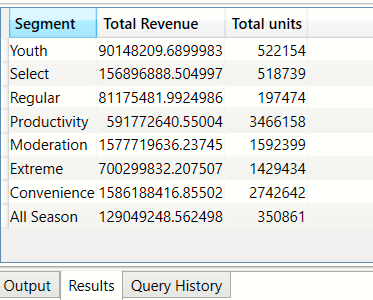
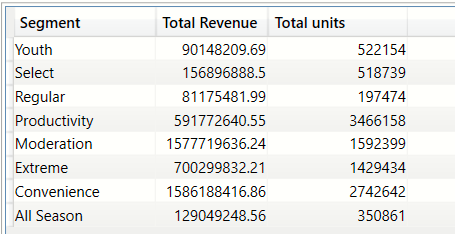
Completed distinct years using VALUES

diff --git a/dax-cheat-sheet/index.html b/dax-cheat-sheet/index.html
@@ -70,22 +70,66 @@
                 <li><a href="https://www.youtube.com/watch?v=kAniA_N7sB8">Computing a measure in DAX Studio</a></li>
 
                 <!--
-                https://www.youtube.com/watch?v=kAniA_N7sB8
-            -->
+            https://www.youtube.com/watch?v=kAniA_N7sB8
+        -->
             </ul>
             <img src="images/dax-studio-connect.PNG" />
 
             <h2>How to execute Table expressions?</h2>
             <p>to be done</p>
+            <img src="images/PlaceHolder.png" />
+            <hr />
 
             <h2>How to execute Scalar expressions?</h2>
-            <p>to be done</p>
+            <p>To execute any expression that returns a scalar value (i.e. not a table) encapsulate the expression
+            in a <code>EVALUATE {}</code> block  </p>
+            <pre>
+EVALUATE
+{
+MAX(bi_salesFact[Date])
+}
+
+EVALUATE
+{
+MIN(bi_salesFact[Date])
+}
+</pre>
+            <img src="images/create-scalar-expression.PNG" />
+            <hr />
 
             <h2>How to create a measure?</h2>
-            <p>to be done</p>
+            <p>In this example we are calculating the total sales per manufacturer. 
+            When using DAX studio the <code>EVALUATE()</code> keyword should be used for encapsulating any 
+            expression that produces a tabular output</p>
+ <pre>
+DEFINE 
+MEASURE bi_manufacturer[TotalUnits]= SUM(bi_salesFact[Units])
+EVALUATE
+(
+SELECTCOLUMNS
+	(
+	bi_manufacturer,
+	"id",bi_manufacturer[ManufacturerID],
+	"name",bi_manufacturer[Manufacturer],
+	"TotalUnits",bi_manufacturer[TotalUnits]
+	)
 
-            <h2>How to create a calculated column?</h2>
-            <p>to be done</p>
+)
+</pre>
+            <img src="images/results-create-measure.png" />
+            <hr />
+
+            <h1>How to create a calculated column?</h1>
+            <pre>
+DEFINE 
+COLUMN bi_manufacturer[ManufacturerUpper]= UPPER(bi_manufacturer[Manufacturer])
+EVALUATE
+(
+bi_manufacturer
+)
+</pre>
+            <img src="images/results-calculated-column.PNG" />
+            <hr />
 
             <h2>How to create a calculated table?</h2>
             <p>to be done</p>
@@ -115,7 +159,7 @@ DISTINCT( bi_product[Segment])
         </section>
         <hr />
         <section>
-            <h1>Distinct list of financial years from the Sales table</h1>
+            <h1>Distinct list of financial years from the Sales table (DISTINCT)</h1>
             <p>In this query we are creating a calculated column <code>year</code></p>
             <pre>
 DEFINE 
@@ -127,6 +171,20 @@ DISTINCT( bi_salesFact[Year] )
 )
             </pre>
             <img src="images/results-distinct-years.PNG" />
+
+            <h1>Distinct list of financial years from the Sales table(VALUES)</h1>
+            <p>The <code>VALUES</code> expression has a similar behaviour to <code>DISTINCT</code></p>
+<pre>
+DEFINE 
+COLUMN bi_salesFact[Year] = year(bi_salesFact[Date])
+
+EVALUATE
+(
+VALUES( bi_salesFact[Year] )
+)
+
+</pre>
+            <img src="images/results-distinct-years-using-values.PNG" />
         </section>
         <hr />
 
@@ -194,6 +252,21 @@ COUNTBLANK(bi_geo[Region])
 			</pre>
             <img src="images/results-count-blank-region.PNG" />
 
+
+            <hr />
+            <h1>Add a calculated column to return 0 if region is blank otherwise 1 (ISBLANK)</h1>
+            <p>to be done</p>
+            <pre>code comes here</pre>
+            <img src="images/PlaceHolder.png" />
+            <hr />
+
+            <h1>Summarize rows in bi_geo where region is blank (GROUPBY, ISBLANK)</h1>
+            <p>to be done</p>
+            <pre>code comes here</pre>
+            <img src="images/PlaceHolder.png" />
+            <hr />
+
+
             <h1>What is the distribution of values in the Region columm of the bi_geo table? (SUMMARIZE)</h1>
             <p>This verifies that total rows(99618)=total non blanks(18929+14512+6507) + total blanks(59670)</p>
             <pre>
@@ -206,39 +279,47 @@ SUMMARIZE(bi_geo,bi_geo[Region], "Count", COUNT(bi_geo[Region]) )
         </section>
         <hr />
 
-        <section>
-            <h1>Are there any duplicates in the 'zip' column of bi_Geo table?</h1>
-            <p>
-                This will help us establish the cardinality of a foreign key relationship with the <code>zip</code> column.
-                Looking at the results we can conclude that there are indeed duplicates and hence this 1-many relationships between <code>bi_Geo</code> and <code>bi_SalesFact</code> is ruled out.
-            </p>
-            <pre>
+        <h1>Are there any duplicates in the 'zip' column of bi_Geo table? (SUMMARIZE,COUNT)</h1>
+        <p>
+            This will help us establish the cardinality of a foreign key relationship with the <code>zip</code> column.
+            Looking at the results we can conclude that there are indeed duplicates and hence this 1-many relationships between <code>bi_Geo</code> and <code>bi_SalesFact</code> is ruled out.
+        </p>
+        <pre>
 EVALUATE
 (
 SUMMARIZE(bi_geo,bi_geo[Zip], "Count", COUNT(bi_geo[Zip]) )
 ) ORDER BY [Count] DESC
 
-			</pre>
-            <img src="images/resuls-zip-column-duplicates.PNG" />
-        </section>
+		</pre>
+        <img src="images/resuls-zip-column-duplicates.PNG" />
+        <hr />
+
+        <h1>What is the highest number of times a single 'zip' code has been duplicated? (SUMMARIZE)</h1>
+        <p>to be done</p>
+        <pre>code comes here</pre>
+        <img src="images/PlaceHolder.png" />
+        <hr />
+
+        <h1>How many values in the 'zip' column are not duplicated? (SUMMARIZE)</h1>
+        <p>to be done</p>
+        <pre>code comes here</pre>
+        <img src="images/PlaceHolder.png" />
         <hr />
 
 
-        <section>
-            <h1>Find rows in bi_salesFact which have NULL zipcode or invalid zipcode </h1>
-            <p>This answers the question. <em>Why are we not able to establish a 1-many relationship between bi_geo table and bi_salesFact table using the Zip colum</em></p>
-            <pre></pre>
-            <img src="images/PlaceHolder.png" />
-        </section>
+        <h1>Find rows in bi_salesFact which have NULL zipcode or invalid zipcode </h1>
+        <p>This answers the question. <em>Why are we not able to establish a 1-many relationship between bi_geo table and bi_salesFact table using the Zip colum</em></p>
+        <pre></pre>
+        <img src="images/PlaceHolder.png" />
         <hr />
 
         <section>
-            <h1>Total units sold and total revenue earned per Product Segment (SUMMARIZE, SUM)</h1>
+            <h1>Total units sold and total revenue earned per Product Segment (SUMMARIZE, SUM, ROUND)</h1>
 
             <pre>
 EVALUATE
 (
-SUMMARIZE( bi_salesFact, bi_product[Segment] , "Total Revenue",SUM(bi_salesFact[Revenue]) , "Total units", SUM(bi_salesFact[Units]) )
+SUMMARIZE( bi_salesFact, bi_product[Segment] , "Total Revenue",ROUND(SUM(bi_salesFact[Revenue]),2) , "Total units", SUM(bi_salesFact[Units]) )
 
 )
 ORDER BY bi_product[Segment] DESC
@@ -254,9 +335,8 @@ ORDER BY bi_product[Segment] DESC
         </section>
         <hr />
 
-        <section>
-            <h1>Total units sold and revenue earned per Manufacturer (SELECTCOLUMNS)</h1>
-            <pre>
+        <h1>Total units sold and revenue earned per Manufacturer (SELECTCOLUMNS)</h1>
+        <pre>
 EVALUATE
 (
 SELECTCOLUMNS
@@ -268,9 +348,14 @@ SELECTCOLUMNS
 	)
 )
             </pre>
-            <img src="images/results-manufacturer-units-and-revenue.PNG" />
+        <img src="images/results-manufacturer-units-and-revenue.PNG" />
 
-        </section>
+        <h1>Total units sold and revenue earned per Manufacturer (SUMMARIZE)</h1>
+        <p>to be done</p>
+        <pre>code comes here</pre>
+        <img src="images/PlaceHolder.png" />
+        <hr />
+
 
 
         <section>
